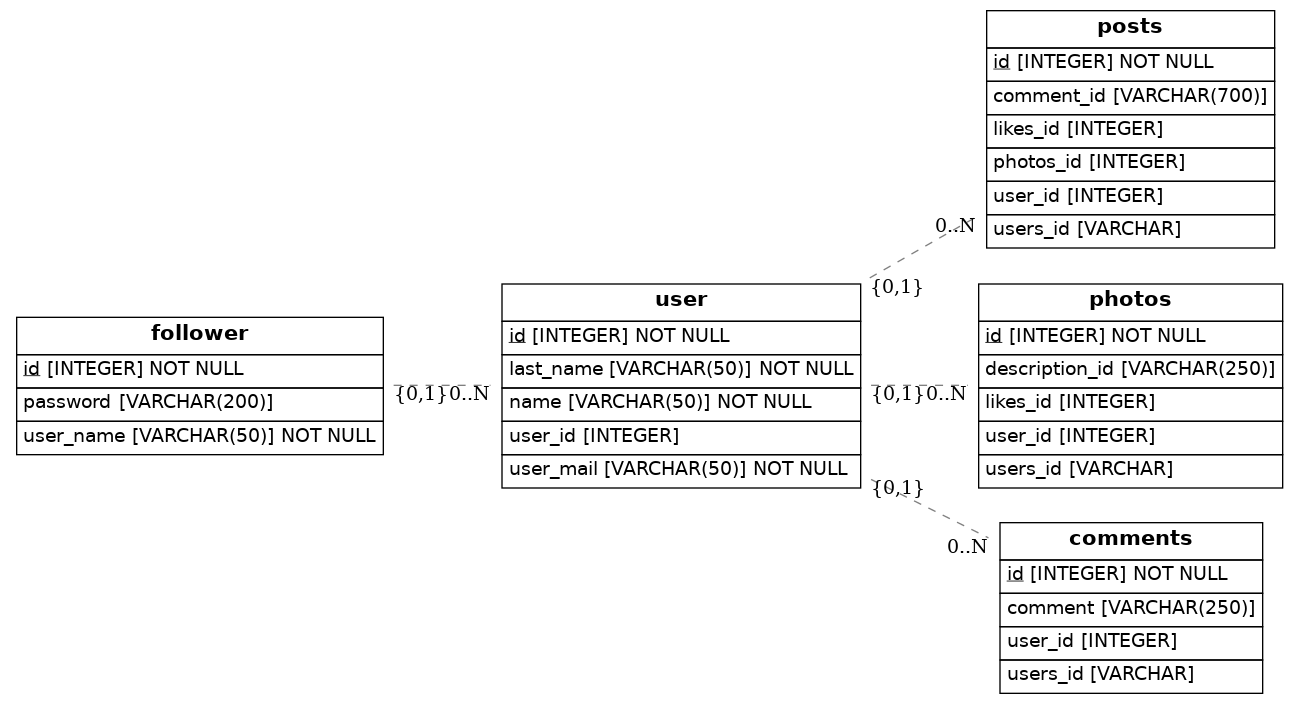
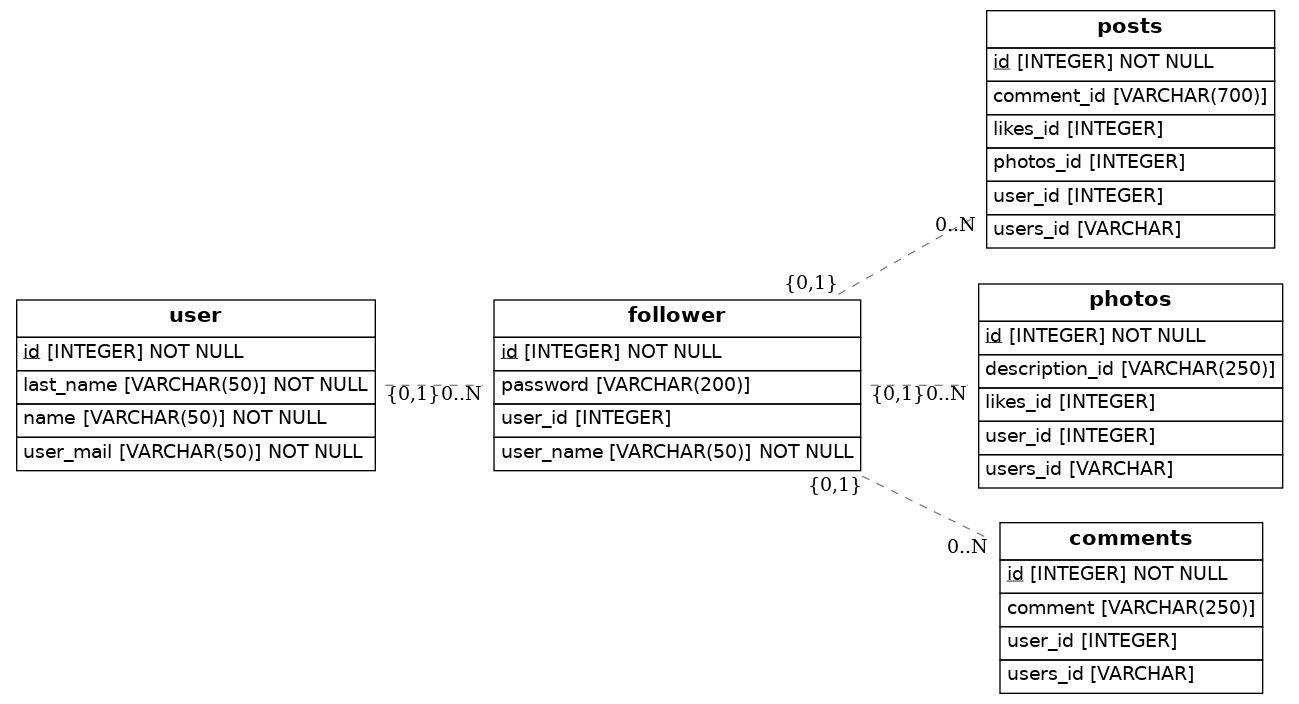
Terminado

Changed region(s): [[0.0, 0.4062, 0.7082, 0.7188], [0.5851, 0.375, 0.7082, 0.4375], [0.7082, 0.3125, 0.739, 0.3438]]

diff --git a/src/models.py b/src/models.py
@@ -7,22 +7,22 @@ from eralchemy2 import render_er
 
 Base = declarative_base()
 
-class Follower(Base):
-    __tablename__ = 'follower'
-    id = Column(Integer, primary_key=True)
-    user_name = Column(String(50), nullable=False)
-    password = Column(String(200))
-    
-
 class User(Base):
     __tablename__ = 'user'
     id = Column(Integer, primary_key=True)
     name = Column(String(50), nullable=False)
     last_name = Column(String(50), nullable=False)
     user_mail = Column(String(50), unique=True, nullable=False)
-    user_id = Column(Integer, ForeignKey('follower.id'))
-    user = relationship(Follower)
 
+class Follower(Base):
+    __tablename__ = 'follower'
+    id = Column(Integer, primary_key=True)
+    user_name = Column(String(50), nullable=False)
+    password = Column(String(200))
+    user_id = Column(Integer, ForeignKey('user.id'))
+    user = relationship(User)
+
+    
 class Posts(Base):
     __tablename__ = 'posts'
     id = Column(Integer, primary_key=True)
@@ -30,8 +30,8 @@ class Posts(Base):
     comment_id = Column(String(700))
     likes_id = Column(Integer)
     photos_id = Column(Integer)
-    user_id = Column(Integer, ForeignKey('user.id'))
-    user = relationship(User)
+    user_id = Column(Integer, ForeignKey('follower.id'))
+    user = relationship(Follower)
 
 class Photos(Base):
     __tablename__ = 'photos'
@@ -39,16 +39,16 @@ class Photos(Base):
     users_id = Column(String)
     description_id = Column(String(250))
     likes_id = Column(Integer)
-    user_id = Column(Integer, ForeignKey('user.id'))
-    user = relationship(User)
+    user_id = Column(Integer, ForeignKey('follower.id'))
+    user = relationship(Follower)
 
 class Comments(Base):
     __tablename__ = 'comments'
     id = Column(Integer, primary_key=True)
     users_id = Column(String)
     comment = Column(String(250))
-    user_id = Column(Integer, ForeignKey('user.id'))
-    user = relationship(User)
+    user_id = Column(Integer, ForeignKey('follower.id'))
+    user = relationship(Follower)
 
     def to_dict(self):
         return {}
